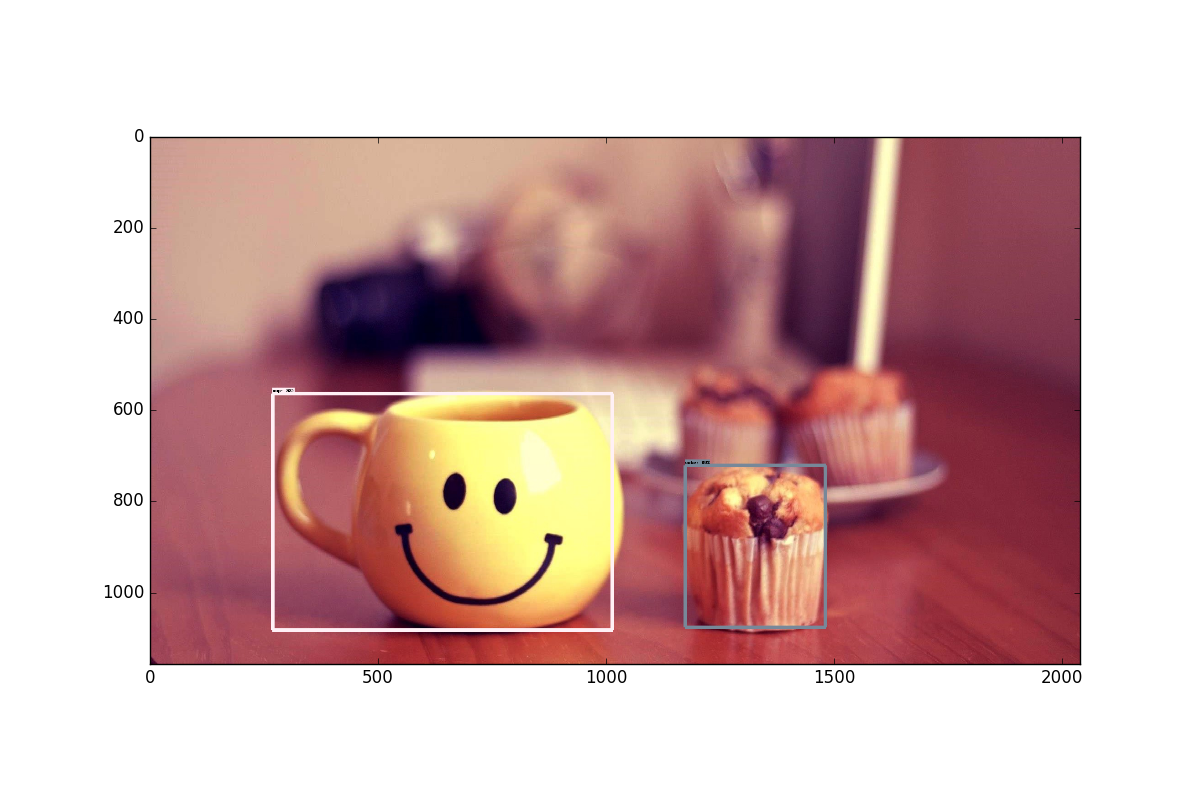
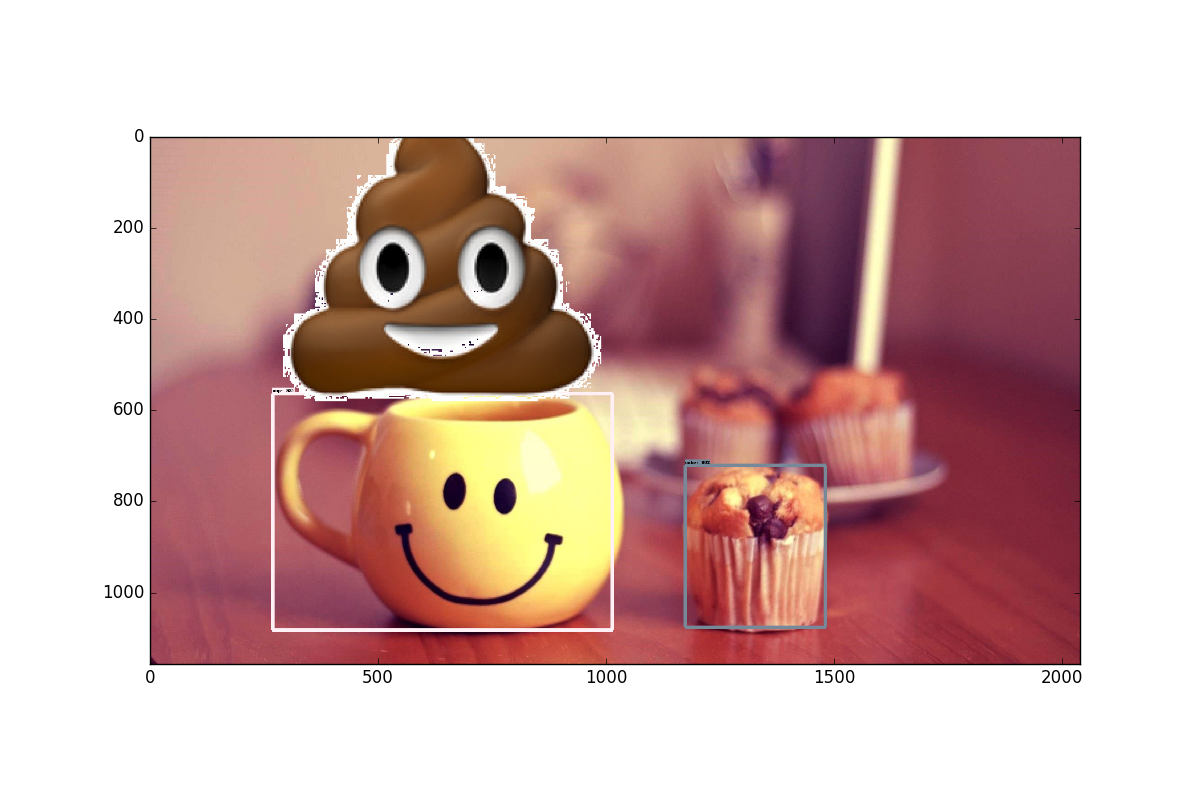
output video

Changed region(s): [[0.2158, 0.1562, 0.5242, 0.5]]

diff --git a/draw.py b/draw.py
@@ -28,16 +28,16 @@ def draw_shit_on_image_array(image,
     box_to_draw_map = collections.defaultdict(list)
     for i in range(min(max_boxes_to_draw, boxes.shape[0])):
         if scores is None or scores[i] > min_score_threshold:
-            if classes[i] in classes_to_replace:
+            if classes[i] != 1:
                 box = tuple(boxes[i].tolist())
-                box_to_draw_map[box] = classes_to_replace[classes[i]]
+                box_to_draw_map[box] = 'shit.jpg'
 
     im_width, im_height, _ = image.shape
     for box, replace_image in box_to_draw_map.items():
         xmin, ymin, xmax, ymax = box
         ymin = int(ymin * im_height)
         ymax = int(ymax * (im_height - 1))
-        xmin = int(xmin * im_width) + 10
+        xmin = int(xmin * im_width + 0.05 * im_width)
         replace_image = IMAGE_MAP[replace_image]
         ri_width, ri_height, _ = replace_image.shape
         size = ymax - ymin
@@ -49,6 +49,6 @@ def draw_shit_on_image_array(image,
                     if replace_image[xx, yy, 0] != 255 \
                             or replace_image[xx, yy, 1] != 255 \
                             or replace_image[xx, yy, 2] != 255:
-                        image[x, y, 0] = replace_image[xx, yy, 0]
+                        image[x, y, 0] = replace_image[xx, yy, 2]
                         image[x, y, 1] = replace_image[xx, yy, 1]
-                        image[x, y, 2] = replace_image[xx, yy, 2]
+                        image[x, y, 2] = replace_image[xx, yy, 0]

diff --git a/object_detection.py b/object_detection.py
@@ -10,8 +10,8 @@ from video.video import FPS, VideoStream
 from utils import label_map_util
 from utils import visualization_utils
 
-WIDTH = 480
-HEIGHT = 360
+WIDTH = 360
+HEIGHT = 240
 VIDEO_SOURCE = 0
 NUM_WORKER = 2
 QUEUE_SIZE = 5
@@ -73,13 +73,20 @@ if __name__ == '__main__':
     pool = Pool(processes=NUM_WORKER, initializer=worker, initargs=(input_q, output_q))
     video = VideoStream(src=VIDEO_SOURCE, width=WIDTH, height=HEIGHT).start()
     fps = FPS().start()
+    fourcc = cv2.VideoWriter_fourcc('M', 'J', 'P', 'G')
+    video_out = None
 
     while True:
         try:
             frame = video.read()
+            if not video_out:
+                video_out = cv2.VideoWriter("data/output.avi", fourcc, 1, (frame.shape[1], frame.shape[0]))
             input_q.put(frame)
             t = time.time()
-            cv2.imshow("Video", output_q.get())
+            output_frame = output_q.get()
+            print(output_frame.shape)
+            video_out.write(output_frame)
+            cv2.imshow("Video", output_frame)
             cv2.waitKey(1)
             fps.update()
             print('approx. FPS: {:.2f}'.format(fps.fps()))
@@ -91,4 +98,5 @@ if __name__ == '__main__':
     pool.terminate()
     fps.stop()
     video.stop()
+    video_out.release()
     cv2.destroyAllWindows()

diff --git a/tf_tutorial.py b/tf_tutorial.py
@@ -1,3 +1,4 @@
+import draw
 import numpy as np
 import os
 import six.moves.urllib as urllib
@@ -82,6 +83,12 @@ with detection_graph.as_default(), tf.Session(graph=detection_graph) as sess:
             category_index,
             use_normalized_coordinates=True,
             line_thickness=8)
+        draw.draw_shit_on_image_array(
+            image_np,
+            np.squeeze(boxes),
+            np.squeeze(classes).astype(np.int32),
+            np.squeeze(scores))
+
         plt.figure(figsize=IMAGE_SIZE)
         plt.imshow(image_np)
         plt.savefig(image_path[:-4] + "_test.png")
